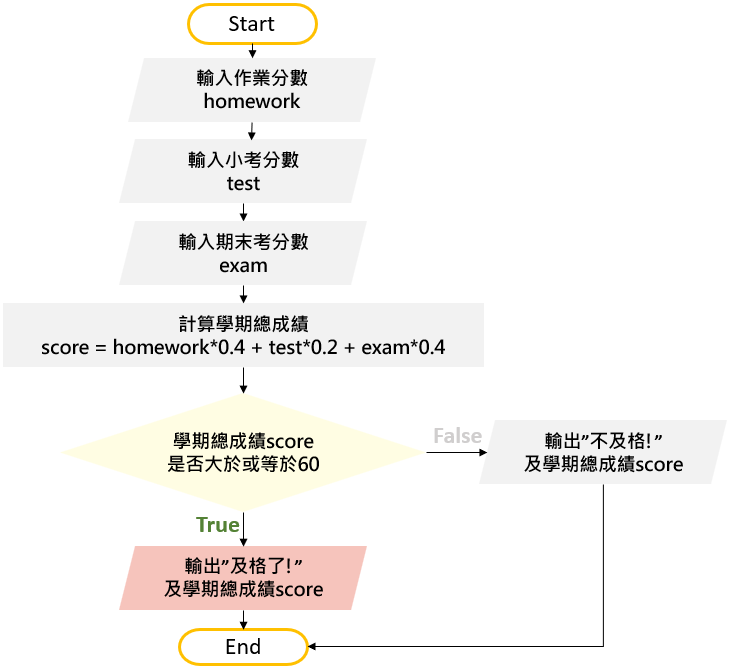
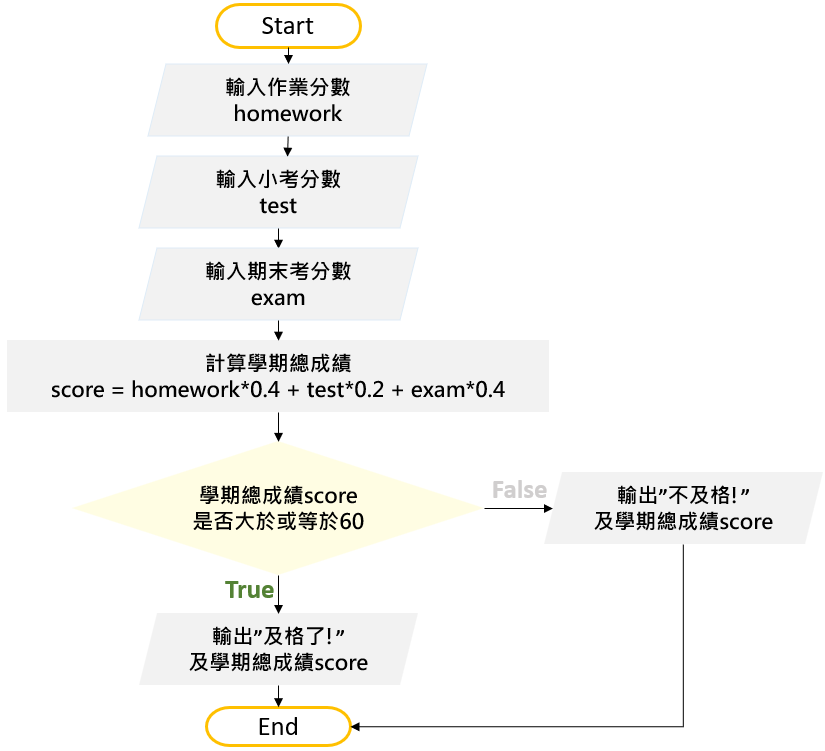
C1~C2完成；C3範例完成

diff --git a/C2/C2-1.php b/C2/C2-1.php
@@ -98,13 +98,13 @@ LoadProblemCode($ThisPage,2);
 									</div>
 									<div class="tab-pane fade" id="flowchart" role="tabpanel" aria-labelledby="flowchart-tab">
 										<!-- 右側區塊的程式流程圖內容 -->
-										<svg width="500" height="500" xmlns="http://www.w3.org/2000/svg">
+										<svg width="700" height="700" xmlns="http://www.w3.org/2000/svg">
 											<defs>
 												<pattern id="image-bg" x="0" y="0" width="100%" height="100%" patternUnits="userSpaceOnUse">
-													<image id="flowpic" href="../pic/<?php echo $ThisPage;?>/stepALL.png" x="0" y="0" width="500" height="500" preserveAspectRatio="none" />
+													<image id="flowpic" href="../pic/<?php echo $ThisPage;?>/stepALL.png" x="0" y="0" width="700" height="700" preserveAspectRatio="none" />
 												</pattern>
 											</defs>
-											<rect x="0" y="0" width="500" height="500" fill="url(#image-bg)" /><!--流程圖底圖-->
+											<rect x="0" y="0" width="700" height="700" fill="url(#image-bg)" /><!--流程圖底圖-->
 											<text id='FlowInfo1' class='FlowInfo1' x="0" y="0" fill="black">FlowInfo1</text><!--流程圖提示資訊1-->
 											<text id='FlowInfo2' class='FlowInfo2' x="0" y="0" fill="black">FlowInfo2</text><!--流程圖提示資訊2-->
 											<text id='FlowInfo3' class='FlowInfo3' x="0" y="0" fill="black">FlowInfo3</text><!--流程圖提示資訊3-->

diff --git a/C2/C2-2.php b/C2/C2-2.php
@@ -98,13 +98,13 @@ LoadProblemCode($ThisPage,2);
 									</div>
 									<div class="tab-pane fade" id="flowchart" role="tabpanel" aria-labelledby="flowchart-tab">
 										<!-- 右側區塊的程式流程圖內容 -->
-										<svg width="500" height="500" xmlns="http://www.w3.org/2000/svg">
+										<svg width="700" height="700" xmlns="http://www.w3.org/2000/svg">
 											<defs>
 												<pattern id="image-bg" x="0" y="0" width="100%" height="100%" patternUnits="userSpaceOnUse">
-													<image id="flowpic" href="../pic/<?php echo $ThisPage;?>/stepALL.png" x="0" y="0" width="500" height="500" preserveAspectRatio="none" />
+													<image id="flowpic" href="../pic/<?php echo $ThisPage;?>/stepALL.png" x="0" y="0" width="700" height="700" preserveAspectRatio="none" />
 												</pattern>
 											</defs>
-											<rect x="0" y="0" width="500" height="500" fill="url(#image-bg)" /><!--流程圖底圖-->
+											<rect x="0" y="0" width="700" height="700" fill="url(#image-bg)" /><!--流程圖底圖-->
 											<text id='FlowInfo1' class='FlowInfo1' x="0" y="0" fill="black">FlowInfo1</text><!--流程圖提示資訊1-->
 											<text id='FlowInfo2' class='FlowInfo2' x="0" y="0" fill="black">FlowInfo2</text><!--流程圖提示資訊2-->
 											<text id='FlowInfo3' class='FlowInfo3' x="0" y="0" fill="black">FlowInfo3</text><!--流程圖提示資訊3-->

diff --git a/C2/C2-3.php b/C2/C2-3.php
@@ -98,13 +98,13 @@ LoadProblemCode($ThisPage,2);
 									</div>
 									<div class="tab-pane fade" id="flowchart" role="tabpanel" aria-labelledby="flowchart-tab">
 										<!-- 右側區塊的程式流程圖內容 -->
-										<svg width="500" height="500" xmlns="http://www.w3.org/2000/svg">
+										<svg width="700" height="700" xmlns="http://www.w3.org/2000/svg">
 											<defs>
 												<pattern id="image-bg" x="0" y="0" width="100%" height="100%" patternUnits="userSpaceOnUse">
-													<image id="flowpic" href="../pic/<?php echo $ThisPage;?>/stepALL.png" x="0" y="0" width="500" height="500" preserveAspectRatio="none" />
+													<image id="flowpic" href="../pic/<?php echo $ThisPage;?>/stepALL.png" x="0" y="0" width="700" height="700" preserveAspectRatio="none" />
 												</pattern>
 											</defs>
-											<rect x="0" y="0" width="500" height="500" fill="url(#image-bg)" /><!--流程圖底圖-->
+											<rect x="0" y="0" width="700" height="700" fill="url(#image-bg)" /><!--流程圖底圖-->
 											<text id='FlowInfo1' class='FlowInfo1' x="0" y="0" fill="black">FlowInfo1</text><!--流程圖提示資訊1-->
 											<text id='FlowInfo2' class='FlowInfo2' x="0" y="0" fill="black">FlowInfo2</text><!--流程圖提示資訊2-->
 											<text id='FlowInfo3' class='FlowInfo3' x="0" y="0" fill="black">FlowInfo3</text><!--流程圖提示資訊3-->

diff --git a/C2/C2-4.php b/C2/C2-4.php
@@ -98,13 +98,13 @@ LoadProblemCode($ThisPage,2);
 									</div>
 									<div class="tab-pane fade" id="flowchart" role="tabpanel" aria-labelledby="flowchart-tab">
 										<!-- 右側區塊的程式流程圖內容 -->
-										<svg width="500" height="500" xmlns="http://www.w3.org/2000/svg">
+										<svg width="700" height="700" xmlns="http://www.w3.org/2000/svg">
 											<defs>
 												<pattern id="image-bg" x="0" y="0" width="100%" height="100%" patternUnits="userSpaceOnUse">
-													<image id="flowpic" href="../pic/<?php echo $ThisPage;?>/stepALL.png" x="0" y="0" width="500" height="500" preserveAspectRatio="none" />
+													<image id="flowpic" href="../pic/<?php echo $ThisPage;?>/stepALL.png" x="0" y="0" width="700" height="700" preserveAspectRatio="none" />
 												</pattern>
 											</defs>
-											<rect x="0" y="0" width="500" height="500" fill="url(#image-bg)" /><!--流程圖底圖-->
+											<rect x="0" y="0" width="700" height="700" fill="url(#image-bg)" /><!--流程圖底圖-->
 											<text id='FlowInfo1' class='FlowInfo1' x="0" y="0" fill="black">FlowInfo1</text><!--流程圖提示資訊1-->
 											<text id='FlowInfo2' class='FlowInfo2' x="0" y="0" fill="black">FlowInfo2</text><!--流程圖提示資訊2-->
 											<text id='FlowInfo3' class='FlowInfo3' x="0" y="0" fill="black">FlowInfo3</text><!--流程圖提示資訊3-->

diff --git a/C2/C2-5.php b/C2/C2-5.php
@@ -98,13 +98,13 @@ LoadProblemCode($ThisPage,2);
 									</div>
 									<div class="tab-pane fade" id="flowchart" role="tabpanel" aria-labelledby="flowchart-tab">
 										<!-- 右側區塊的程式流程圖內容 -->
-										<svg width="500" height="500" xmlns="http://www.w3.org/2000/svg">
+										<svg width="700" height="700" xmlns="http://www.w3.org/2000/svg">
 											<defs>
 												<pattern id="image-bg" x="0" y="0" width="100%" height="100%" patternUnits="userSpaceOnUse">
-													<image id="flowpic" href="../pic/<?php echo $ThisPage;?>/stepALL.png" x="0" y="0" width="500" height="500" preserveAspectRatio="none" />
+													<image id="flowpic" href="../pic/<?php echo $ThisPage;?>/stepALL.png" x="0" y="0" width="700" height="700" preserveAspectRatio="none" />
 												</pattern>
 											</defs>
-											<rect x="0" y="0" width="500" height="500" fill="url(#image-bg)" /><!--流程圖底圖-->
+											<rect x="0" y="0" width="700" height="700" fill="url(#image-bg)" /><!--流程圖底圖-->
 											<text id='FlowInfo1' class='FlowInfo1' x="0" y="0" fill="black">FlowInfo1</text><!--流程圖提示資訊1-->
 											<text id='FlowInfo2' class='FlowInfo2' x="0" y="0" fill="black">FlowInfo2</text><!--流程圖提示資訊2-->
 											<text id='FlowInfo3' class='FlowInfo3' x="0" y="0" fill="black">FlowInfo3</text><!--流程圖提示資訊3-->

diff --git a/C2/C2-6.php b/C2/C2-6.php
@@ -98,13 +98,13 @@ LoadProblemCode($ThisPage,2);
 									</div>
 									<div class="tab-pane fade" id="flowchart" role="tabpanel" aria-labelledby="flowchart-tab">
 										<!-- 右側區塊的程式流程圖內容 -->
-										<svg width="500" height="500" xmlns="http://www.w3.org/2000/svg">
+										<svg width="700" height="700" xmlns="http://www.w3.org/2000/svg">
 											<defs>
 												<pattern id="image-bg" x="0" y="0" width="100%" height="100%" patternUnits="userSpaceOnUse">
-													<image id="flowpic" href="../pic/<?php echo $ThisPage;?>/stepALL.png" x="0" y="0" width="500" height="500" preserveAspectRatio="none" />
+													<image id="flowpic" href="../pic/<?php echo $ThisPage;?>/stepALL.png" x="0" y="0" width="700" height="700" preserveAspectRatio="none" />
 												</pattern>
 											</defs>
-											<rect x="0" y="0" width="500" height="500" fill="url(#image-bg)" /><!--流程圖底圖-->
+											<rect x="0" y="0" width="700" height="700" fill="url(#image-bg)" /><!--流程圖底圖-->
 											<text id='FlowInfo1' class='FlowInfo1' x="0" y="0" fill="black">FlowInfo1</text><!--流程圖提示資訊1-->
 											<text id='FlowInfo2' class='FlowInfo2' x="0" y="0" fill="black">FlowInfo2</text><!--流程圖提示資訊2-->
 											<text id='FlowInfo3' class='FlowInfo3' x="0" y="0" fill="black">FlowInfo3</text><!--流程圖提示資訊3-->

diff --git a/C2/C2-7.php b/C2/C2-7.php
@@ -98,13 +98,13 @@ LoadProblemCode($ThisPage,2);
 									</div>
 									<div class="tab-pane fade" id="flowchart" role="tabpanel" aria-labelledby="flowchart-tab">
 										<!-- 右側區塊的程式流程圖內容 -->
-										<svg width="500" height="500" xmlns="http://www.w3.org/2000/svg">
+										<svg width="700" height="700" xmlns="http://www.w3.org/2000/svg">
 											<defs>
 												<pattern id="image-bg" x="0" y="0" width="100%" height="100%" patternUnits="userSpaceOnUse">
-													<image id="flowpic" href="../pic/<?php echo $ThisPage;?>/stepALL.png" x="0" y="0" width="500" height="500" preserveAspectRatio="none" />
+													<image id="flowpic" href="../pic/<?php echo $ThisPage;?>/stepALL.png" x="0" y="0" width="700" height="700" preserveAspectRatio="none" />
 												</pattern>
 											</defs>
-											<rect x="0" y="0" width="500" height="500" fill="url(#image-bg)" /><!--流程圖底圖-->
+											<rect x="0" y="0" width="700" height="700" fill="url(#image-bg)" /><!--流程圖底圖-->
 											<text id='FlowInfo1' class='FlowInfo1' x="0" y="0" fill="black">FlowInfo1</text><!--流程圖提示資訊1-->
 											<text id='FlowInfo2' class='FlowInfo2' x="0" y="0" fill="black">FlowInfo2</text><!--流程圖提示資訊2-->
 											<text id='FlowInfo3' class='FlowInfo3' x="0" y="0" fill="black">FlowInfo3</text><!--流程圖提示資訊3-->

diff --git a/C2/C2-8.php b/C2/C2-8.php
@@ -98,13 +98,13 @@ LoadProblemCode($ThisPage,2);
 									</div>
 									<div class="tab-pane fade" id="flowchart" role="tabpanel" aria-labelledby="flowchart-tab">
 										<!-- 右側區塊的程式流程圖內容 -->
-										<svg width="500" height="500" xmlns="http://www.w3.org/2000/svg">
+										<svg width="700" height="700" xmlns="http://www.w3.org/2000/svg">
 											<defs>
 												<pattern id="image-bg" x="0" y="0" width="100%" height="100%" patternUnits="userSpaceOnUse">
-													<image id="flowpic" href="../pic/<?php echo $ThisPage;?>/stepALL.png" x="0" y="0" width="500" height="500" preserveAspectRatio="none" />
+													<image id="flowpic" href="../pic/<?php echo $ThisPage;?>/stepALL.png" x="0" y="0" width="700" height="700" preserveAspectRatio="none" />
 												</pattern>
 											</defs>
-											<rect x="0" y="0" width="500" height="500" fill="url(#image-bg)" /><!--流程圖底圖-->
+											<rect x="0" y="0" width="700" height="700" fill="url(#image-bg)" /><!--流程圖底圖-->
 											<text id='FlowInfo1' class='FlowInfo1' x="0" y="0" fill="black">FlowInfo1</text><!--流程圖提示資訊1-->
 											<text id='FlowInfo2' class='FlowInfo2' x="0" y="0" fill="black">FlowInfo2</text><!--流程圖提示資訊2-->
 											<text id='FlowInfo3' class='FlowInfo3' x="0" y="0" fill="black">FlowInfo3</text><!--流程圖提示資訊3-->

diff --git a/C3/C3-1.php b/C3/C3-1.php
@@ -98,13 +98,13 @@ LoadProblemCode($ThisPage,2);
 									</div>
 									<div class="tab-pane fade" id="flowchart" role="tabpanel" aria-labelledby="flowchart-tab">
 										<!-- 右側區塊的程式流程圖內容 -->
-										<svg width="500" height="500" xmlns="http://www.w3.org/2000/svg">
+										<svg width="700" height="700" xmlns="http://www.w3.org/2000/svg">
 											<defs>
 												<pattern id="image-bg" x="0" y="0" width="100%" height="100%" patternUnits="userSpaceOnUse">
-													<image id="flowpic" href="../pic/<?php echo $ThisPage;?>/stepALL.png" x="0" y="0" width="500" height="500" preserveAspectRatio="none" />
+													<image id="flowpic" href="../pic/<?php echo $ThisPage;?>/stepALL.png" x="0" y="0" width="700" height="700" preserveAspectRatio="none" />
 												</pattern>
 											</defs>
-											<rect x="0" y="0" width="500" height="500" fill="url(#image-bg)" /><!--流程圖底圖-->
+											<rect x="0" y="0" width="700" height="700" fill="url(#image-bg)" /><!--流程圖底圖-->
 											<text id='FlowInfo1' class='FlowInfo1' x="0" y="0" fill="black">FlowInfo1</text><!--流程圖提示資訊1-->
 											<text id='FlowInfo2' class='FlowInfo2' x="0" y="0" fill="black">FlowInfo2</text><!--流程圖提示資訊2-->
 											<text id='FlowInfo3' class='FlowInfo3' x="0" y="0" fill="black">FlowInfo3</text><!--流程圖提示資訊3-->

diff --git a/C3/C3-2.php b/C3/C3-2.php
@@ -98,13 +98,13 @@ LoadProblemCode($ThisPage,2);
 									</div>
 									<div class="tab-pane fade" id="flowchart" role="tabpanel" aria-labelledby="flowchart-tab">
 										<!-- 右側區塊的程式流程圖內容 -->
-										<svg width="500" height="500" xmlns="http://www.w3.org/2000/svg">
+										<svg width="700" height="700" xmlns="http://www.w3.org/2000/svg">
 											<defs>
 												<pattern id="image-bg" x="0" y="0" width="100%" height="100%" patternUnits="userSpaceOnUse">
-													<image id="flowpic" href="../pic/<?php echo $ThisPage;?>/stepALL.png" x="0" y="0" width="500" height="500" preserveAspectRatio="none" />
+													<image id="flowpic" href="../pic/<?php echo $ThisPage;?>/stepALL.png" x="0" y="0" width="700" height="700" preserveAspectRatio="none" />
 												</pattern>
 											</defs>
-											<rect x="0" y="0" width="500" height="500" fill="url(#image-bg)" /><!--流程圖底圖-->
+											<rect x="0" y="0" width="700" height="700" fill="url(#image-bg)" /><!--流程圖底圖-->
 											<text id='FlowInfo1' class='FlowInfo1' x="0" y="0" fill="black">FlowInfo1</text><!--流程圖提示資訊1-->
 											<text id='FlowInfo2' class='FlowInfo2' x="0" y="0" fill="black">FlowInfo2</text><!--流程圖提示資訊2-->
 											<text id='FlowInfo3' class='FlowInfo3' x="0" y="0" fill="black">FlowInfo3</text><!--流程圖提示資訊3-->

diff --git a/C3/C3-3.php b/C3/C3-3.php
@@ -98,13 +98,13 @@ LoadProblemCode($ThisPage,2);
 									</div>
 									<div class="tab-pane fade" id="flowchart" role="tabpanel" aria-labelledby="flowchart-tab">
 										<!-- 右側區塊的程式流程圖內容 -->
-										<svg width="500" height="500" xmlns="http://www.w3.org/2000/svg">
+										<svg width="700" height="700" xmlns="http://www.w3.org/2000/svg">
 											<defs>
 												<pattern id="image-bg" x="0" y="0" width="100%" height="100%" patternUnits="userSpaceOnUse">
-													<image id="flowpic" href="../pic/<?php echo $ThisPage;?>/stepALL.png" x="0" y="0" width="500" height="500" preserveAspectRatio="none" />
+													<image id="flowpic" href="../pic/<?php echo $ThisPage;?>/stepALL.png" x="0" y="0" width="700" height="700" preserveAspectRatio="none" />
 												</pattern>
 											</defs>
-											<rect x="0" y="0" width="500" height="500" fill="url(#image-bg)" /><!--流程圖底圖-->
+											<rect x="0" y="0" width="700" height="700" fill="url(#image-bg)" /><!--流程圖底圖-->
 											<text id='FlowInfo1' class='FlowInfo1' x="0" y="0" fill="black">FlowInfo1</text><!--流程圖提示資訊1-->
 											<text id='FlowInfo2' class='FlowInfo2' x="0" y="0" fill="black">FlowInfo2</text><!--流程圖提示資訊2-->
 											<text id='FlowInfo3' class='FlowInfo3' x="0" y="0" fill="black">FlowInfo3</text><!--流程圖提示資訊3-->

diff --git a/C3/C3-4.php b/C3/C3-4.php
@@ -98,13 +98,13 @@ LoadProblemCode($ThisPage,2);
 									</div>
 									<div class="tab-pane fade" id="flowchart" role="tabpanel" aria-labelledby="flowchart-tab">
 										<!-- 右側區塊的程式流程圖內容 -->
-										<svg width="500" height="500" xmlns="http://www.w3.org/2000/svg">
+										<svg width="700" height="700" xmlns="http://www.w3.org/2000/svg">
 											<defs>
 												<pattern id="image-bg" x="0" y="0" width="100%" height="100%" patternUnits="userSpaceOnUse">
-													<image id="flowpic" href="../pic/<?php echo $ThisPage;?>/stepALL.png" x="0" y="0" width="500" height="500" preserveAspectRatio="none" />
+													<image id="flowpic" href="../pic/<?php echo $ThisPage;?>/stepALL.png" x="0" y="0" width="700" height="700" preserveAspectRatio="none" />
 												</pattern>
 											</defs>
-											<rect x="0" y="0" width="500" height="500" fill="url(#image-bg)" /><!--流程圖底圖-->
+											<rect x="0" y="0" width="700" height="700" fill="url(#image-bg)" /><!--流程圖底圖-->
 											<text id='FlowInfo1' class='FlowInfo1' x="0" y="0" fill="black">FlowInfo1</text><!--流程圖提示資訊1-->
 											<text id='FlowInfo2' class='FlowInfo2' x="0" y="0" fill="black">FlowInfo2</text><!--流程圖提示資訊2-->
 											<text id='FlowInfo3' class='FlowInfo3' x="0" y="0" fill="black">FlowInfo3</text><!--流程圖提示資訊3-->
